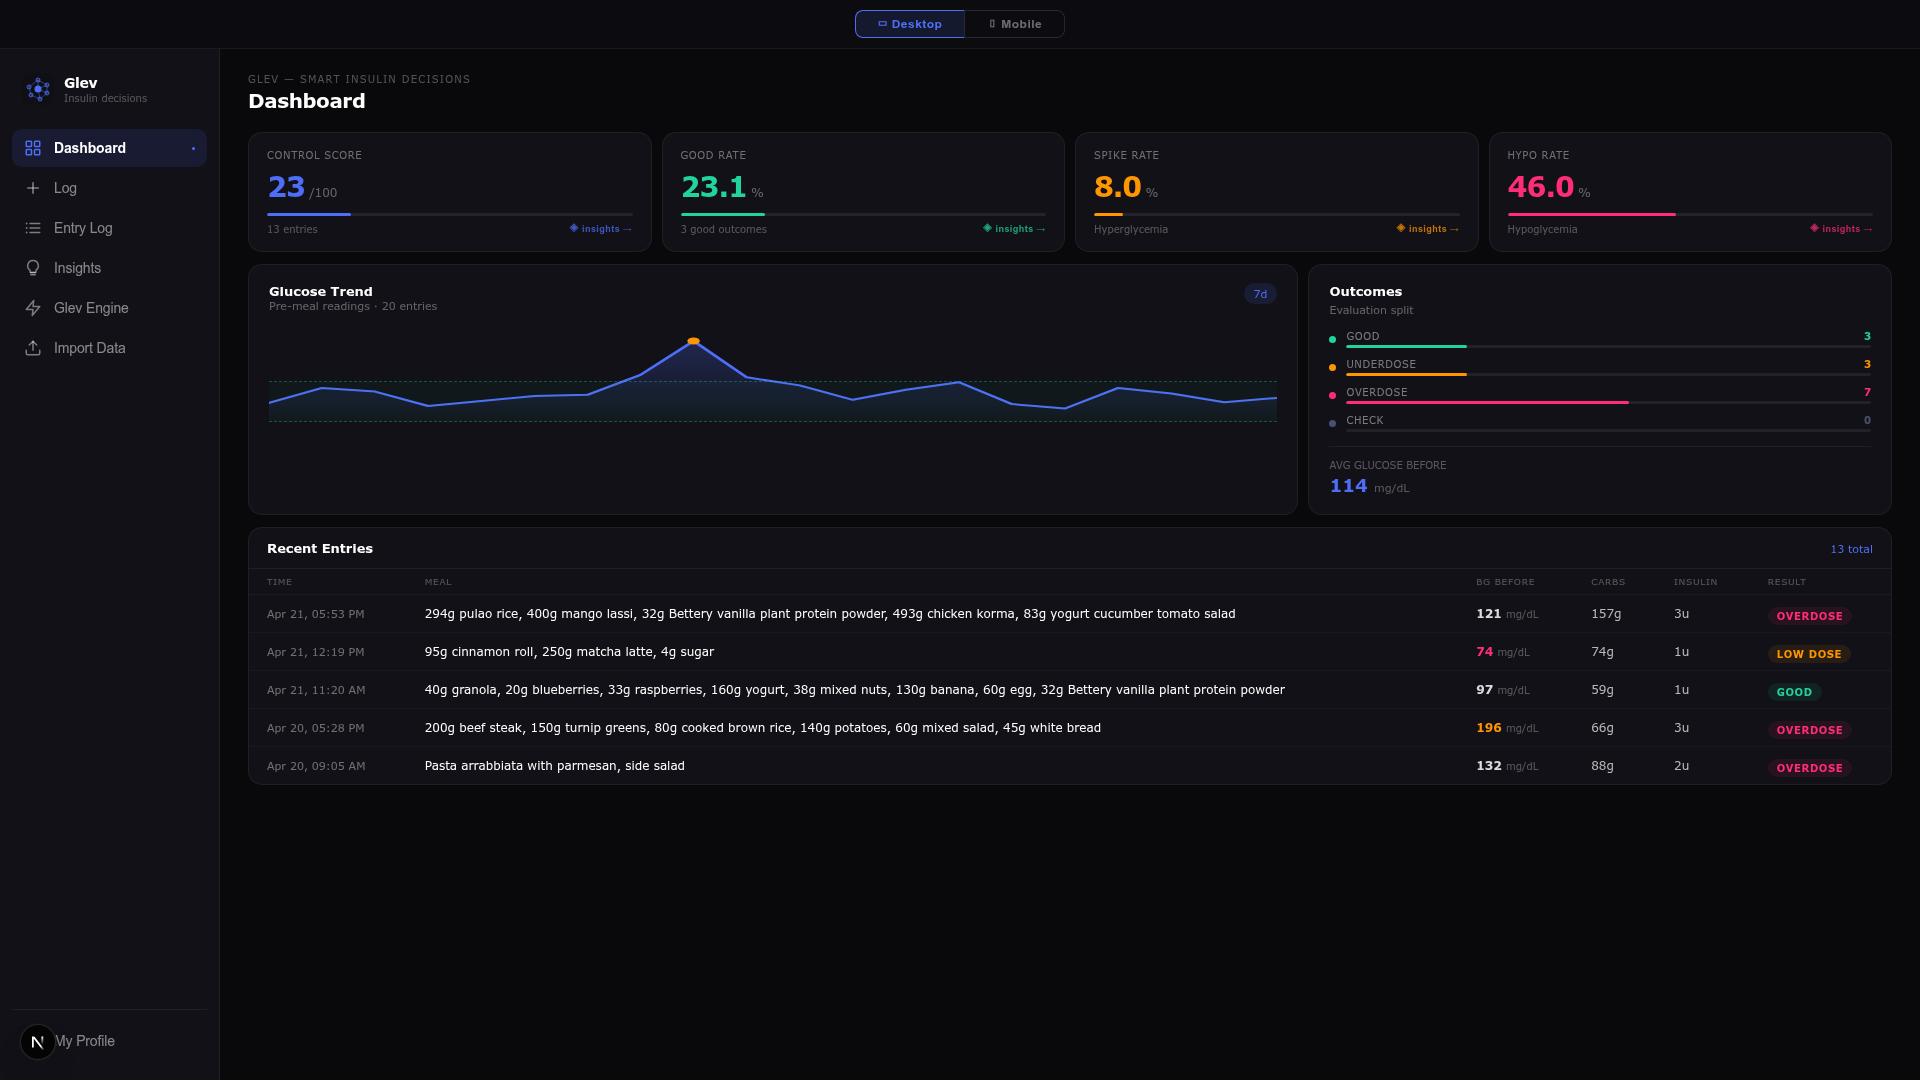
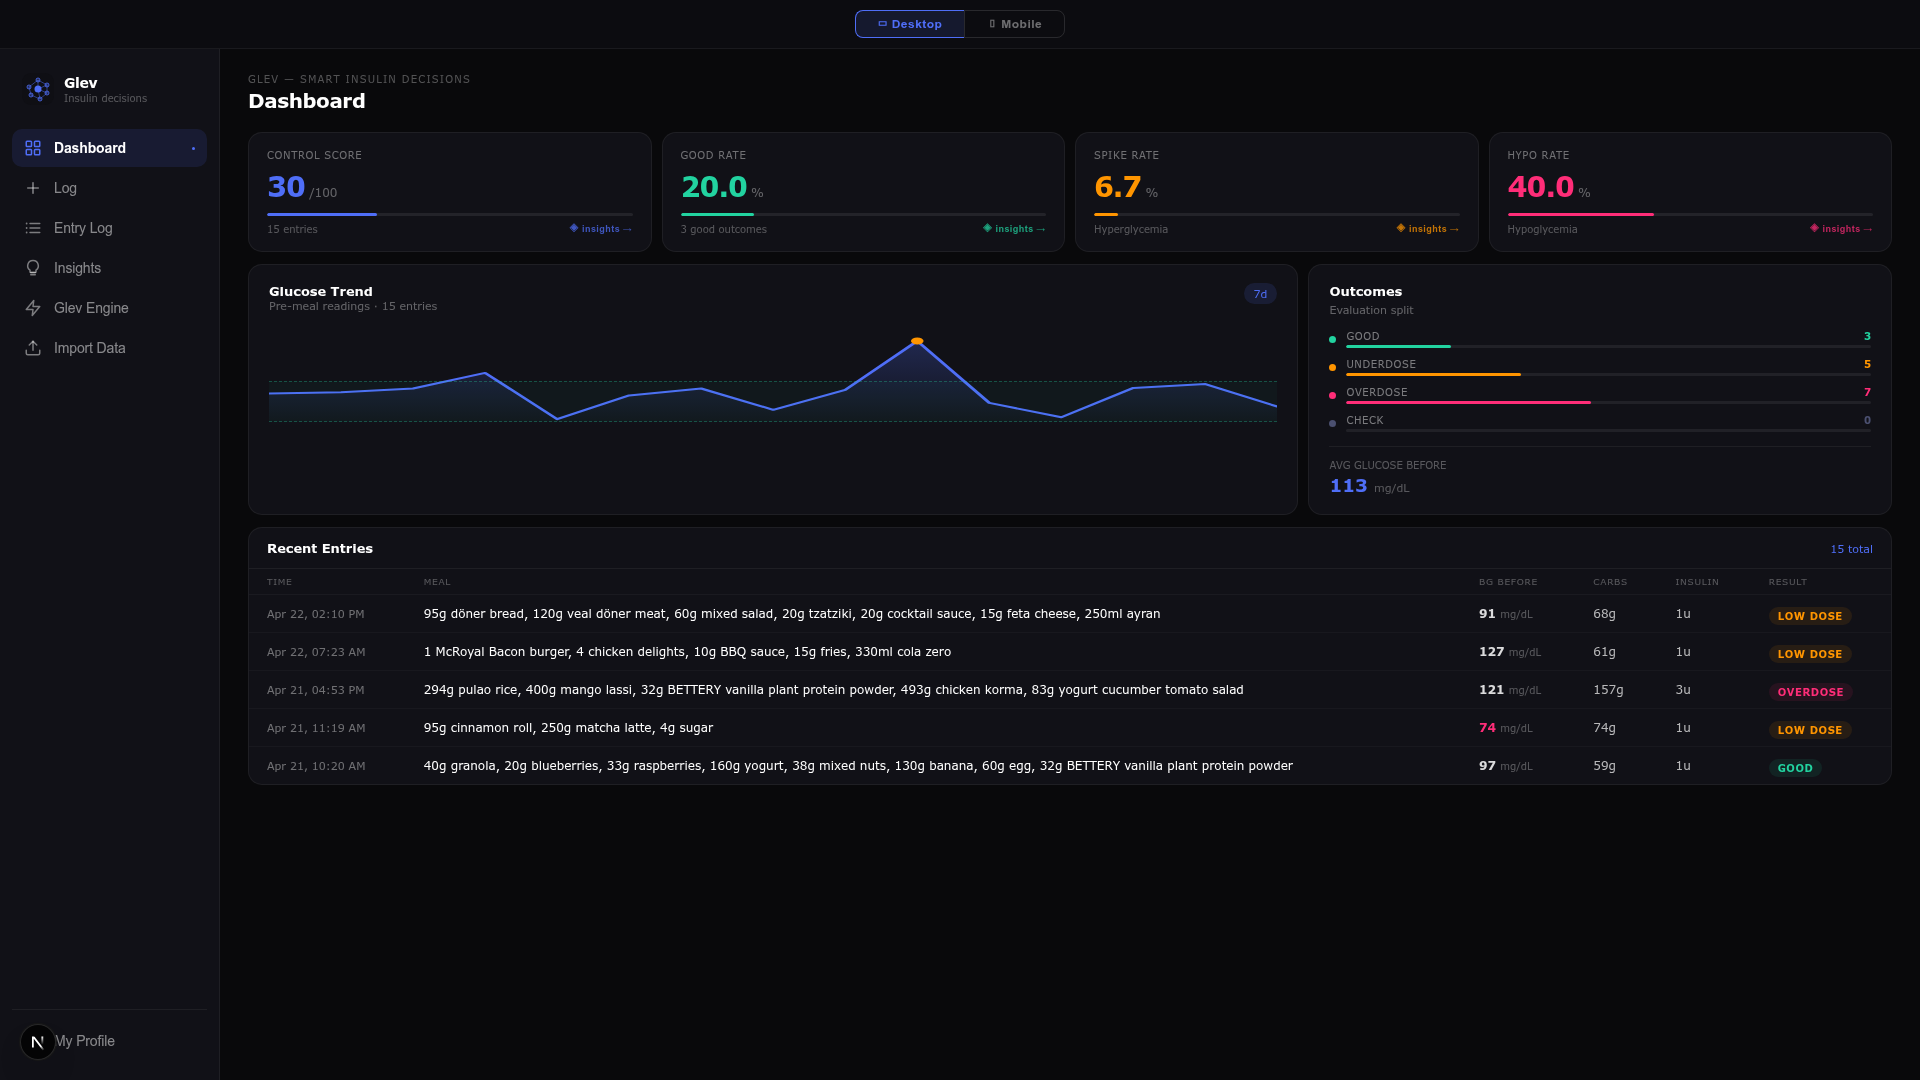
Add user's historical meal data to the dashboard mockup
Incorporate user's historical meal entries into the dark cockpit mockup, replacing placeholder data with actual tracking information from April 17-22, 2026.

Replit-Commit-Author: Agent
Replit-Commit-Session-Id: 10ed3cab-3945-480f-9d76-2f8e3b364a2a
Replit-Commit-Checkpoint-Type: full_checkpoint
Replit-Commit-Event-Id: d3aa38c8-e58e-4806-91bb-d26595ce6af0
Replit-Commit-Screenshot-Url: https://storage.googleapis.com/screenshot-production-us-central1/1582eb31-8cfb-41c9-8ede-f7c139b9ebd0/10ed3cab-3945-480f-9d76-2f8e3b364a2a/GZnGnIa
Replit-Helium-Checkpoint-Created: true

diff --git a/app/mockups/dark-cockpit/page.tsx b/app/mockups/dark-cockpit/page.tsx
@@ -136,33 +136,64 @@ function parseVoiceInput(text: string): ParsedVoiceEntry {
 }
 
 // ─── API helpers ─────────────────────────────────────────────────
+// Real historical entries from the user's tracking sheet (Apr 17–22, 2026),
+// newest first. Used by the mockup so the dashboard reflects actual data.
+const MOCKUP_ENTRIES: Entry[] = [
+  { id: 15, timestamp: "2026-04-22T18:10:00Z", glucoseBefore: 91,  glucoseAfter: 162, carbsGrams: 68,  fiberGrams: null, insulinUnits: 1, mealType: null, mealDescription: "95g döner bread, 120g veal döner meat, 60g mixed salad, 20g tzatziki, 20g cocktail sauce, 15g feta cheese, 250ml ayran", evaluation: "UNDERDOSE", delta: 71, timeDifferenceMinutes: 62 },
+  { id: 14, timestamp: "2026-04-22T11:23:00Z", glucoseBefore: 127, glucoseAfter: 162, carbsGrams: 61,  fiberGrams: null, insulinUnits: 1, mealType: null, mealDescription: "1 McRoyal Bacon burger, 4 chicken delights, 10g BBQ sauce, 15g fries, 330ml cola zero", evaluation: "UNDERDOSE", delta: 35, timeDifferenceMinutes: 58 },
+  { id: 13, timestamp: "2026-04-21T20:53:00Z", glucoseBefore: 121, glucoseAfter: 60,  carbsGrams: 157, fiberGrams: null, insulinUnits: 3, mealType: null, mealDescription: "294g pulao rice, 400g mango lassi, 32g BETTERY vanilla plant protein powder, 493g chicken korma, 83g yogurt cucumber tomato salad", evaluation: "OVERDOSE", delta: -61, timeDifferenceMinutes: 72 },
+  { id: 12, timestamp: "2026-04-21T15:19:00Z", glucoseBefore: 74,  glucoseAfter: 150, carbsGrams: 74,  fiberGrams: null, insulinUnits: 1, mealType: null, mealDescription: "95g cinnamon roll, 250g matcha latte, 4g sugar", evaluation: "UNDERDOSE", delta: 76, timeDifferenceMinutes: 61 },
+  { id: 11, timestamp: "2026-04-21T14:20:00Z", glucoseBefore: 97,  glucoseAfter: 96,  carbsGrams: 59,  fiberGrams: null, insulinUnits: 1, mealType: null, mealDescription: "40g granola, 20g blueberries, 33g raspberries, 160g yogurt, 38g mixed nuts, 130g banana, 60g egg, 32g BETTERY vanilla plant protein powder", evaluation: "GOOD", delta: -1, timeDifferenceMinutes: 59 },
+  { id: 10, timestamp: "2026-04-20T20:28:00Z", glucoseBefore: 196, glucoseAfter: 96,  carbsGrams: 66,  fiberGrams: null, insulinUnits: 3, mealType: null, mealDescription: "200g beef steak, 150g turnip greens, 80g cooked brown rice, 140g potatoes, 60g mixed salad, 45g white bread", evaluation: "OVERDOSE", delta: -100, timeDifferenceMinutes: 86 },
+  { id: 9,  timestamp: "2026-04-20T16:36:00Z", glucoseBefore: 118, glucoseAfter: 256, carbsGrams: 82,  fiberGrams: null, insulinUnits: 1, mealType: null, mealDescription: "80g granola, 120g banana, 20g mixed nuts, 150g coconut rice milk", evaluation: "UNDERDOSE", delta: 138, timeDifferenceMinutes: 88 },
+  { id: 8,  timestamp: "2026-04-20T10:43:00Z", glucoseBefore: 86,  glucoseAfter: 120, carbsGrams: 51,  fiberGrams: null, insulinUnits: 1, mealType: null, mealDescription: "60g chia pudding, 129g Greek yogurt, 33g blueberries, 34g raspberries, 125g light mozzarella, 125g tomato, 48g rye bread, 6g olive oil, 60g egg, 32g BETTERY vanilla plant protein powder, 37g mixed nuts, 2g cinnamon", evaluation: "UNDERDOSE", delta: 34, timeDifferenceMinutes: 59 },
+  { id: 7,  timestamp: "2026-04-19T21:55:00Z", glucoseBefore: 120, glucoseAfter: 81,  carbsGrams: 93,  fiberGrams: null, insulinUnits: 2, mealType: null, mealDescription: "218g fennel pear salad, 139g broccoli, 95g roasted chickpeas, 69g halloumi, 115g potato wedges, 60g egg", evaluation: "OVERDOSE", delta: -39, timeDifferenceMinutes: 65 },
+  { id: 6,  timestamp: "2026-04-19T15:01:00Z", glucoseBefore: 109, glucoseAfter: 66,  carbsGrams: 42,  fiberGrams: null, insulinUnits: 2, mealType: null, mealDescription: "75g pita bread, 110g kafta, 18g tahini sauce, 35g mixed vegetables, 90g tabbouleh salad", evaluation: "OVERDOSE", delta: -43, timeDifferenceMinutes: 62 },
+  { id: 5,  timestamp: "2026-04-19T11:12:00Z", glucoseBefore: 71,  glucoseAfter: 62,  carbsGrams: 67,  fiberGrams: null, insulinUnits: 2, mealType: null, mealDescription: "131g chia pudding, 126g stracciatella yogurt, 125g light mozzarella, 125g tomato, 48g rye bread, 40g Portuguese fresh cheese, 60g egg, 40g blueberries, 35g raspberries, 20g mixed nuts, 6g olive oil, 32g BETTERY vanilla plant protein powder, 15g gummy candy", evaluation: "GOOD", delta: -9, timeDifferenceMinutes: 73 },
+  { id: 4,  timestamp: "2026-04-18T20:30:00Z", glucoseBefore: 145, glucoseAfter: 67,  carbsGrams: 50,  fiberGrams: null, insulinUnits: 3, mealType: null, mealDescription: "90g mackerel, 55g fries, 70g dark bread, 75g seafood rice, 20g olives, 35g salad, 20g creamed spinach, 8g Portuguese onion olive oil sauce", evaluation: "OVERDOSE", delta: -78, timeDifferenceMinutes: 83 },
+  { id: 3,  timestamp: "2026-04-18T14:40:00Z", glucoseBefore: 120, glucoseAfter: 65,  carbsGrams: 40,  fiberGrams: null, insulinUnits: 3, mealType: null, mealDescription: "234g chicken breast, 158g broccoli, 90g roasted chickpeas, 32g BETTERY protein shake, 8g olive oil, 6g butter, 4g garlic", evaluation: "OVERDOSE", delta: -55, timeDifferenceMinutes: 56 },
+  { id: 2,  timestamp: "2026-04-18T09:34:00Z", glucoseBefore: 114, glucoseAfter: 97,  carbsGrams: 62,  fiberGrams: null, insulinUnits: 2, mealType: null, mealDescription: "150g chia pudding, 100g Greek yogurt, 45g blueberries, 45g raspberries, 18g mixed nuts, 32g Bettery protein shake, 55g wholegrain rye bread, 125g mozzarella, 40g cream cheese, 120g tomato, 50g egg", evaluation: "GOOD", delta: -17, timeDifferenceMinutes: 65 },
+  { id: 1,  timestamp: "2026-04-17T21:40:00Z", glucoseBefore: 112, glucoseAfter: 56,  carbsGrams: 76,  fiberGrams: null, insulinUnits: 3, mealType: null, mealDescription: "1 Ox Tongue Croquette, honey mustard, 8 olives, 1 oyster, 5 ravioli, 100g green beans", evaluation: "OVERDOSE", delta: -56, timeDifferenceMinutes: 73 },
+];
+
 async function apiFetch<T>(path: string, _opts?: RequestInit): Promise<T> {
-  // MOCKUP STUB — returns fixture data matching the design screenshot, so
-  // the dark cockpit can be displayed standalone for design comparison.
+  // MOCKUP STUB — returns fixture data computed from the user's real tracking
+  // sheet so the dark cockpit can be displayed standalone for design comparison.
   await new Promise(r => setTimeout(r, 50));
   if (path.startsWith("/insights/dashboard")) {
+    const total = MOCKUP_ENTRIES.length;
+    const eb = { GOOD: 0, OVERDOSE: 0, UNDERDOSE: 0, CHECK_CONTEXT: 0 };
+    let bgSum = 0, bgCount = 0, hypo = 0, spike = 0;
+    for (const e of MOCKUP_ENTRIES) {
+      if (e.evaluation && e.evaluation in eb) eb[e.evaluation as keyof typeof eb]++;
+      if (e.glucoseBefore != null) { bgSum += e.glucoseBefore; bgCount++; }
+      if (e.glucoseAfter != null && e.glucoseAfter < 70) hypo++;
+      if (e.glucoseAfter != null && e.glucoseAfter > 180) spike++;
+    }
+    const goodRate = eb.GOOD / total;
+    const hypoRate = (hypo / total) * 100;
+    const spikeRate = (spike / total) * 100;
+    // Control score: blends good-outcome rate with penalties for hypos and spikes.
+    const controlScore = Math.max(0, Math.min(100, Math.round(
+      goodRate * 100 + (100 - hypoRate) * 0.2 - spikeRate * 0.3
+    )));
     return {
-      controlScore: 23,
-      hypoRate: 46.0,
-      spikeRate: 8.0,
-      totalEntries: 13,
-      goodRate: 0.231,
-      avgGlucoseBefore: 114,
-      evaluationBreakdown: { GOOD: 3, OVERDOSE: 7, UNDERDOSE: 3, CHECK_CONTEXT: 0 },
-      recentEntries: [
-        { id: 1, timestamp: "2026-04-21T21:53:00Z", glucoseBefore: 121, glucoseAfter: null, carbsGrams: 157, fiberGrams: null, insulinUnits: 3, mealType: null, mealDescription: "294g pulao rice, 400g mango lassi, 32g Bettery vanilla plant protein powder, 493g chicken korma, 83g yogurt cucumber tomato salad", evaluation: "OVERDOSE", delta: null, timeDifferenceMinutes: null },
-        { id: 2, timestamp: "2026-04-21T16:19:00Z", glucoseBefore: 74,  glucoseAfter: null, carbsGrams: 74,  fiberGrams: null, insulinUnits: 1, mealType: null, mealDescription: "95g cinnamon roll, 250g matcha latte, 4g sugar", evaluation: "UNDERDOSE", delta: null, timeDifferenceMinutes: null },
-        { id: 3, timestamp: "2026-04-21T15:20:00Z", glucoseBefore: 97,  glucoseAfter: null, carbsGrams: 59,  fiberGrams: null, insulinUnits: 1, mealType: null, mealDescription: "40g granola, 20g blueberries, 33g raspberries, 160g yogurt, 38g mixed nuts, 130g banana, 60g egg, 32g Bettery vanilla plant protein powder", evaluation: "GOOD", delta: null, timeDifferenceMinutes: null },
-        { id: 4, timestamp: "2026-04-20T21:28:00Z", glucoseBefore: 196, glucoseAfter: null, carbsGrams: 66,  fiberGrams: null, insulinUnits: 3, mealType: null, mealDescription: "200g beef steak, 150g turnip greens, 80g cooked brown rice, 140g potatoes, 60g mixed salad, 45g white bread", evaluation: "OVERDOSE", delta: null, timeDifferenceMinutes: null },
-        { id: 5, timestamp: "2026-04-20T13:05:00Z", glucoseBefore: 132, glucoseAfter: null, carbsGrams: 88,  fiberGrams: null, insulinUnits: 2, mealType: null, mealDescription: "Pasta arrabbiata with parmesan, side salad", evaluation: "OVERDOSE", delta: null, timeDifferenceMinutes: null },
-      ],
+      controlScore,
+      hypoRate,
+      spikeRate,
+      totalEntries: total,
+      goodRate,
+      avgGlucoseBefore: bgCount ? bgSum / bgCount : null,
+      evaluationBreakdown: eb,
+      recentEntries: MOCKUP_ENTRIES,
     } as unknown as T;
   }
   if (path.startsWith("/insights/glucose-trend")) {
-    const series = [105, 98, 112, 121, 88, 95, 130, 118, 102, 125, 138, 196, 142, 110, 108, 100, 92, 115, 121, 97];
-    return { points: series.map((g, i) => ({
-      timestamp: new Date(Date.now() - (series.length - i) * 3600_000).toISOString(),
-      glucoseBefore: g, glucoseAfter: null, evaluation: null,
+    return { points: MOCKUP_ENTRIES.map(e => ({
+      timestamp: e.timestamp,
+      glucoseBefore: e.glucoseBefore,
+      glucoseAfter: e.glucoseAfter,
+      evaluation: e.evaluation,
     })) } as unknown as T;
   }
   if (path.startsWith("/insights/meal-patterns") || path.startsWith("/insights/patterns")) return { patterns: [] } as unknown as T;
